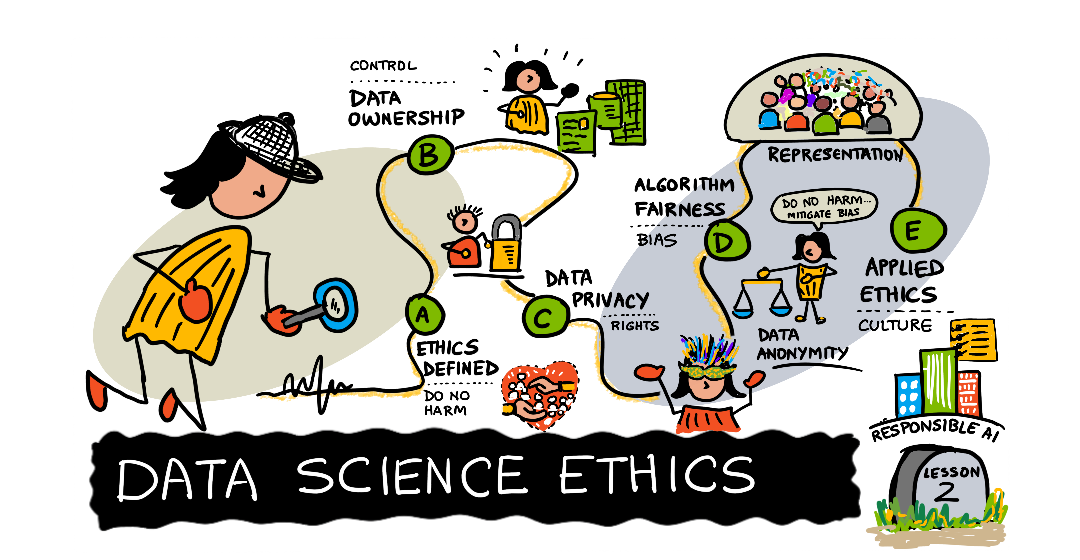
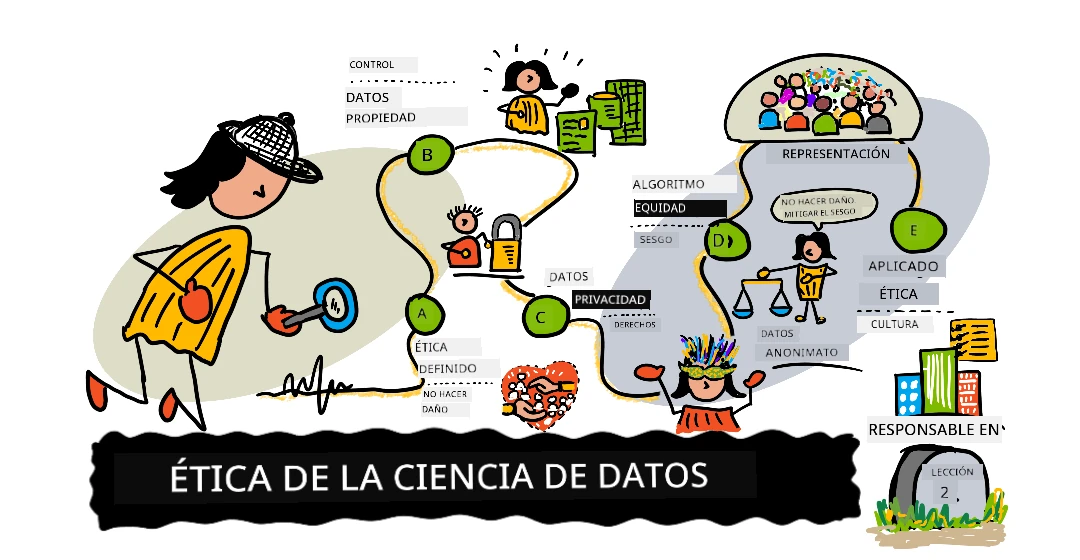
Update: README.md & Tarea.md

diff --git a/1-Introduccion/2-Ética/Tarea.md b/1-Introduccion/2-Ética/Tarea.md
@@ -1,6 +1,6 @@
 ## Escriba un estudio de caso de ética de datos
 
-## Instructions
+## Instrucciones
 
 Ha aprendido sobre varios [desafíos de la ética de los datos ](README.md#2-ethics-challenges) que ha visto algunos ejemplos de [estudios de casos](README.md#3-case-studies) que reflejan los desafíos de la ética de los datos en contextos del mundo real.
 
